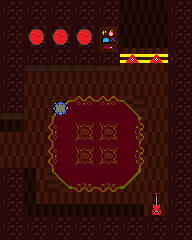
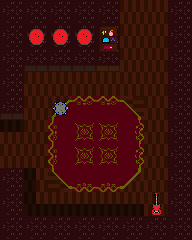
linguagens3

Changed region(s): [[0.625, 0.0, 0.875, 0.2625]]

diff --git a/pages/linguagens3.html b/pages/linguagens3.html
@@ -1,0 +1,133 @@
+<link rel="stylesheet" href="../src/style.css">
+<script src="https://cdnjs.cloudflare.com/ajax/libs/jquery/3.7.1/jquery.min.js" integrity="sha512-v2CJ7UaYy4JwqLDIrZUI/4hqeoQieOmAZNXBeQyjo21dadnwR+8ZaIJVT8EE2iyI61OV8e6M8PP2/4hpQINQ/g==" crossorigin="anonymous" referrerpolicy="no-referrer"></script>
+
+<style>
+    .map {
+    background-image: url("../img/Map016.png");
+    width: calc(15 * var(--grid-cell));
+    height: calc(15 * var(--grid-cell));
+    }
+
+    #taskSet {
+        width: 80px;
+        height: 95px;
+        top: 115;
+        left: 125;
+    }
+
+    #taskOct {
+        width: 80px;
+        height: 95px;
+        top: 135px;
+        left: 445;
+    }
+
+    #taskNov {
+        width: 80px;
+        height: 95px;
+        top: 115;
+        right: 115;
+    }
+
+    #goBack {
+        width: 220px;
+        height: 110px;
+        right: 100;
+        bottom: 0;
+    }
+</style>
+
+<body>
+    <div class="main">
+            <div class="child1">
+                <div class="title"><h1>Área de Linguagens 3</h1></div>
+                <div id="message"></div>
+                <div class="frame">
+                    <div class="corner_topleft"></div>
+                    <div class="corner_topright"></div>
+                    <div class="corner_bottomleft"></div>
+                    <div class="corner_bottomright"></div>
+                    
+                    
+                    <div class="camera">
+                        <div class="map pixel-art">
+                            <div class="interactable" id="taskSet"></div>
+                            <div class="interactable" id="taskOct"></div>
+                            <div class="interactable" id="taskNov"></div>
+                            <div class="interactable" id="goBack"></div>
+                            <div class="character" facing="up" walking="true">
+                                <div class="shadow pixel-art"></div>
+                                <div class="character_spritesheet pixel-art"></div>
+                            </div>
+                        </div>
+                    </div>
+                </div>
+            </div>
+            <div class="child2">
+                <div class="title" id="att"><h1>Viewer de Atividades</h1></div>
+                <div class="media"></div>
+                <div class="description">
+                    <h3>Nesta área serão exibidas as atividades que você quiser oberservar. 
+                        Clique nos quadros dentro das salas de cada matéria para vê-las. Você 
+                        pode passar o mouse por cima para ver qual atividade é.</h3>
+                </div>
+            </div>
+    </div>
+    
+</body>
+
+<script src="../src/index.js"></script>
+<script>
+    x = 170;
+    y = 180;
+    leftLimit = 22;
+    rightLimit = 190;
+    topLimit = 75;
+    bottomLimit = 180;
+
+    $('.interactable').hover(function() {
+        let id = $(this).attr('id');
+        switch(id) {
+            case 'taskSet':
+                $('#message').html('<h2>3° Aplicação do Redação Online</h2>');
+                break;
+            case 'taskOct':
+                $('#message').html('<h2>Panis et Circensis</h2>');
+                break;
+            case 'taskNov':
+                $('#message').html('<h2></h2>');
+                break;
+            case 'goBack':
+                $('#message').html('<h2>Entre nessa porta para voltar</h2>');
+                break;
+        }
+        setTimeout(function() {
+            $('#message').html('');
+        }, 3000);
+    })
+
+    $('.interactable').on('click', function() {
+        let id = $(this).attr('id');
+        let iframe = $(parent.document.getElementById("iframe"));
+        switch(id) {
+            case 'taskSet':
+                $('#att').html('<h1>3° Aplicação do Redação Online</h1>');
+                $('.description').html('<h3>Esta foi a última aplicação do Redação Online do ano, e o tema foi Medidas Para Combater a Má Alimentação Entre os Jovens No Brasil. Minha nota segundo os corretores foi 800.</h3>');
+                $('.media').html(' <iframe width="450" height="500" src="https://drive.google.com/file/d/1zeNjOjo08r2_HvQhQa1Zh06gKo6fvYFA/preview" allow="autoplay"></iframe> ')
+                break;
+            case 'taskOct':
+                $('#att').html('<h1>Panis et Circensis</h1>');
+                $('.description').html('<h3>Neste trabalho, nosso grupo explorou a canção Bat Macumba, do álbum Tropicália ou Panis et Circensis. Pesquisamos o contexto histórico do tropicalismo, suas características e os artistas envolvidos. Analisamos a letra e a sonoridade da música, destacando como elementos do tropicalismo. A apresentação inclui esses dados em slides e uma criação artística: um cartaz onde a letra de "Bat Macumba" forma a bandeira do Brasil.</h3>');
+                $('.media').html('<iframe src="" width="450" height="500" ></iframe>');
+                break;
+            case 'taskNov':
+                $('#att').html('<h1></h1>');
+                $('.description').html('<h3></h3>');
+                $('.media').html('<iframe allowfullscreen="allowfullscreen" loading="lazy" allow="fullscreen" width="450" height="500" src="https:&#x2F;&#x2F;www.canva.com&#x2F;design&#x2F;DAGDPv_Q5gw&#x2F;EqHlv4l1uQE27M6BvuInxw&#x2F;view?embed"></iframe>');
+                break;
+            case 'goBack':
+                iframe.attr('src','./pages/linguagens2.html');
+                break;
+        }
+    })
+</script>

diff --git a/pages/linguagens2.html b/pages/linguagens2.html
@@ -35,6 +35,13 @@
         left: 0px;
         bottom: 380px;
     }
+
+    #goFow {
+        width: 240px;
+        height: 250px;
+        right: 120;
+        top: 100;
+    }
 </style>
 
 <body>
@@ -55,6 +62,7 @@
                             <div class="interactable" id="taskJun"></div>
                             <div class="interactable" id="taskAgo"></div>
                             <div class="interactable" id="goBack"></div>
+                            <div class="interactable" id="goFow"></div>
                             <div class="character" facing="right" walking="true">
                                 <div class="shadow pixel-art"></div>
                                 <div class="character_spritesheet pixel-art"></div>
@@ -100,6 +108,9 @@
             case 'goBack':
                 $('#message').html('<h2>Entre nessa porta para voltar</h2>');
                 break;
+            case 'goFow':
+                $('#message').html('<h2>Continue para o terceiro trimestre</h2>');
+                    break;
         }
         setTimeout(function() {
             $('#message').html('');
@@ -127,6 +138,9 @@
                 break;
             case 'goBack':
                 iframe.attr('src','./pages/linguagens.html');
+                break;
+            case 'goFow':
+                iframe.attr('src', './pages/linguagens3.html');
                 break;
         }
     })
